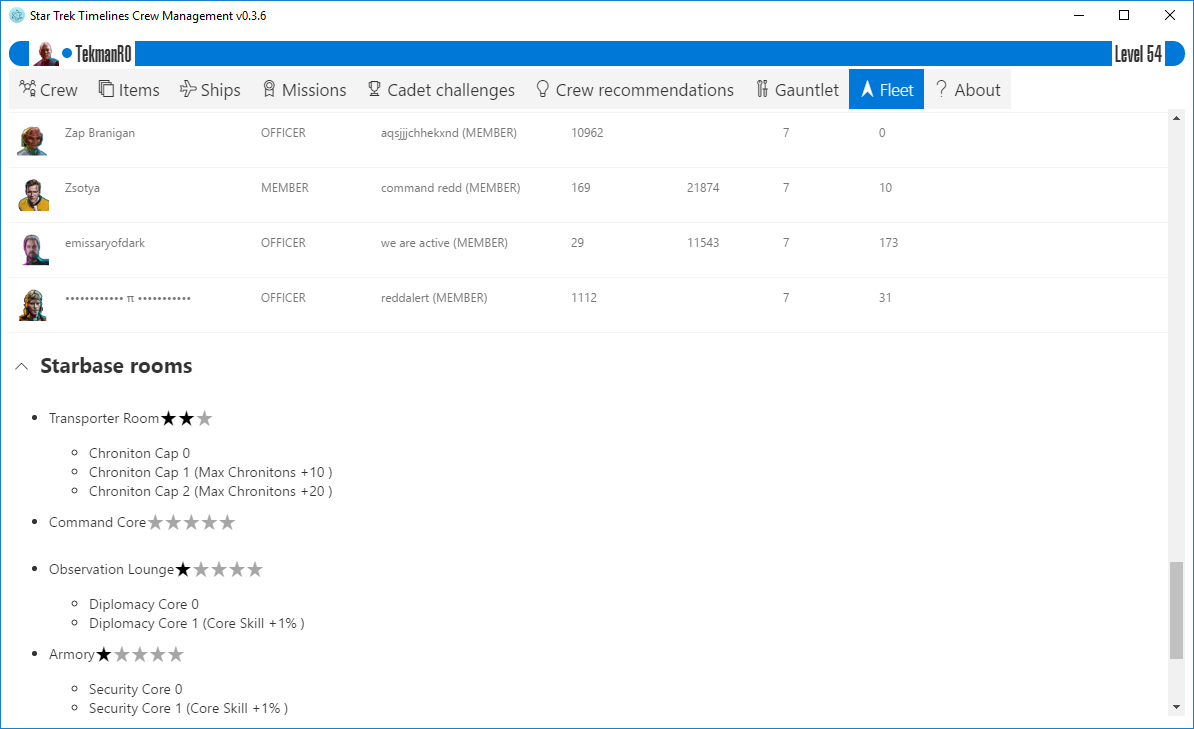
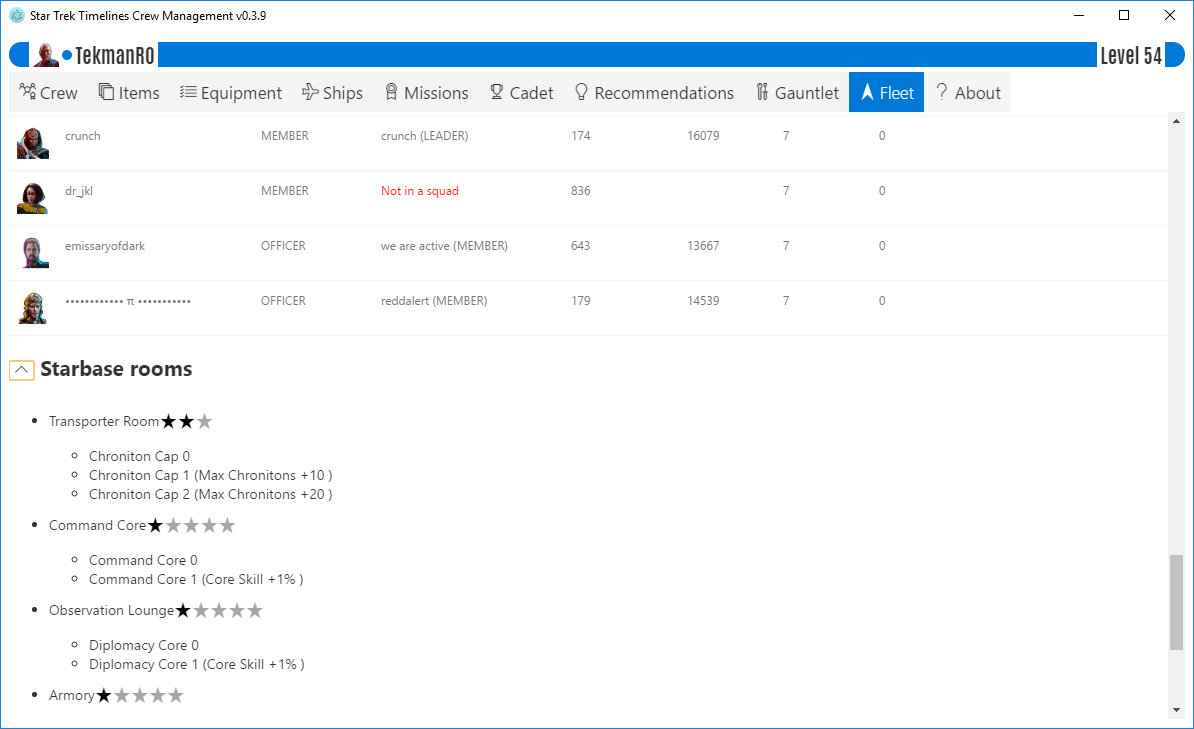
Added support for TypeScript. Fix auto-login. Remove grouping by default in the crew grid (it's super-slow even on a fast PC). Updated documentation to reflect latest changes.

diff --git a/src/utils/UserConfigLoader.ts b/src/utils/UserConfigLoader.ts
@@ -1,0 +1,33 @@
+import * as storage from "electron-json-storage-sync";
+
+// https://caolan.github.io/async/docs.html#parallel
+// http://fredkschott.com/post/2014/03/understanding-error-first-callbacks-in-node-js/
+
+export class UserConfigLoader {
+	userConfig: any;
+
+	constructor() {
+		let result: any = storage.get("userConfig");
+		if (result.status) {
+			this.userConfig = result.data;
+		}
+	}
+
+	getValue(prop : string): any {
+		if (this.userConfig) {
+			return this.userConfig[prop];
+		} else {
+			return undefined;
+		}
+	}
+
+	setValue(prop: string, value : any): void {
+		if (!this.userConfig) {
+			this.userConfig = {};
+		}
+
+		this.userConfig[prop] = value;
+
+		storage.set("userConfig", this.userConfig);
+	}
+}

diff --git a/src/utils/config.js b/src/utils/config.js
@@ -1,31 +1,4 @@
-const storage = require('electron-json-storage-sync');
-
-class UserConfigLoader {
-	constructor() {
-		const result = storage.get('userConfig');
-		if (result.status) {
-			this.userConfig = result.data;
-		}
-	}
-
-	getValue(prop) {
-		if (this.userConfig) {
-			return this.userConfig[prop];
-		}
-		else {
-			return undefined;
-		}
-	}
-
-	setValue(prop, value) {
-		if (!this.userConfig)
-			this.userConfig = {};
-
-		this.userConfig[prop] = value;
-
-		storage.set('userConfig');
-	}
-}
+import { UserConfigLoader } from './UserConfigLoader.ts';
 
 export var UserConfig = new UserConfigLoader();
 

diff --git a/src/components/App.js b/src/components/App.js
@@ -132,7 +132,7 @@ class App extends React.Component {
 					<Pivot linkFormat={PivotLinkFormat.tabs} linkSize={PivotLinkSize.large}>
 						<PivotItem linkText='Crew' itemIcon='Teamwork'>
 							<CommandBar items={this._getCommandItems()} />
-							<CrewList data={this.state.crewList} ref='crewList' />
+							<CrewList data={this.state.crewList} grouped={false} ref='crewList' />
 						</PivotItem>
 						<PivotItem linkText='Items' itemIcon='Boards'>
 							<ItemList data={this.state.itemList} imageURLs={this.imageURLs} />

diff --git a/webpack.build.config.js b/webpack.build.config.js
@@ -35,6 +35,21 @@ module.exports = {
 				include: defaultInclude
 			},
 			{
+				test: /\.ts$/,
+				enforce: 'pre',
+				loader: 'tslint-loader',
+				options: {
+					typeCheck: true,
+					emitErrors: true
+				},
+				include: defaultInclude
+			},
+			{
+				test: /\.tsx?$/,
+				loader: ['babel-loader', 'ts-loader'],
+				include: defaultInclude
+			},
+			{
 				test: /\.(jpe?g|png|gif)$/,
 				use: [{ loader: 'file-loader?name=img/[name]__[hash:base64:5].[ext]' }],
 				include: defaultInclude

diff --git a/webpack.dev.config.js b/webpack.dev.config.js
@@ -39,6 +39,19 @@ module.exports = {
 				test: /\.(eot|svg|ttf|woff|woff2)$/,
 				use: [{ loader: 'file-loader?name=font/[name]__[hash:base64:5].[ext]' }],
 				include: defaultInclude
+			},
+			{
+				test: /\.ts$/,
+				enforce: 'pre',
+				loader: 'tslint-loader',
+				options: {
+					typeCheck: true,
+					emitErrors: true
+				}
+			},
+			{
+				test: /\.tsx?$/,
+				loader: ['babel-loader', 'ts-loader']
 			}
 		]
 	},

diff --git a/src/utils/wikiImage.js b/src/utils/wikiImage.js
@@ -10,7 +10,7 @@ export function getWikiImageUrl(imageURLs, fileName, id, callback, errCallback) 
 	}
 
 	//TODO: why are there so many we can't find?
-	console.info('Didn\'t find ' + fileName + ' in cache');
+	//console.info('Didn\'t find ' + fileName + ' in cache');
 
 	const reqOptions = {
 		method: 'GET',

diff --git a/src/utils/missingtypes.d.ts b/src/utils/missingtypes.d.ts
@@ -1,0 +1,1 @@
+declare module 'electron-json-storage-sync';

diff --git a/README.md b/README.md
@@ -19,7 +19,7 @@ However, if you're only interested in installing and running the tool, head on t
 
 ![Screenshot tool](/docs/Screenshot-Tool.png "Tool screenshot")
 
-The first tab lets you manage your crew. You can sort by various fields, (un)group by rarity as well as export the data in Excel or plain CSV formats.
+The first tab lets you manage your crew. You can sort by various fields, (un)group by rarity as well as export the data in Excel, CSV, JSON or HTML formats.
 
 ### Item management
 
@@ -65,21 +65,11 @@ In this tab you can get recommendations for which crew to use in your next gaunt
 
 Basic information about your fleet such as a member list with their last online and event ranks and starbase rooms' status.
 
-## Get an access token
-First, you need to obtain an access token. If you're running on a Windows PC, install the free Star Trek Timelines [Steam application](http://store.steampowered.com/app/600750/Star_Trek_Timelines/), then open it at least once to log in.
+### Share your crew stats
 
-If you're not running on a Windows PC or don't want to install the Steam application, you can use the Facebook application through your browser. Please follow the steps below for obtaining an access token:
+![Screenshot Sharing](/docs/Screenshot-ShareOnline.png "Sharing screenshot")
 
-1. Open Chrome and hit F12 and switch to the Network tab in the debug pane that opens
-2. Now navigate to [Star Trek Timelines](https://apps.facebook.com/sttimelines) on the page and wait until you get the "Play >>" link
-3. Back in the debug page, enter "stt.disruptorbeam.com/player" in the Filter input. Select the first item in the list of requests.
-4. On the right, you should see something like this:
-
-![Screenshot](/docs/screenshot.png "Screenshot")
-
-5. Copy the access_token, which should be in this format: "123e4567-e89b-12d3-a456-426655440000"
-
-*NOTE*: you need to repeat this process about once every 2 weeks, as the access token expires after a set period of time.
+You can export a formatted html page with your crew stats and (optionally) your mission completion stats either to the local PC or directly upload it online, ready to send a link wherever you want - maybe your fleet-mates or to the forum / reddit / discord to ask for advice or just brag :wink: .
 
 ## Development environment
 
@@ -107,4 +97,4 @@ If you want to test the production build (In case you think Babili might be brea
 **NOTE: The command-line version of the tool is deprecated, all new development happens in the GUI version!**
 
 
-[See details here for the command line version of the tool](CLI.MD)
+[See details here for the command line version of the tool](/docs/CLI.MD)
